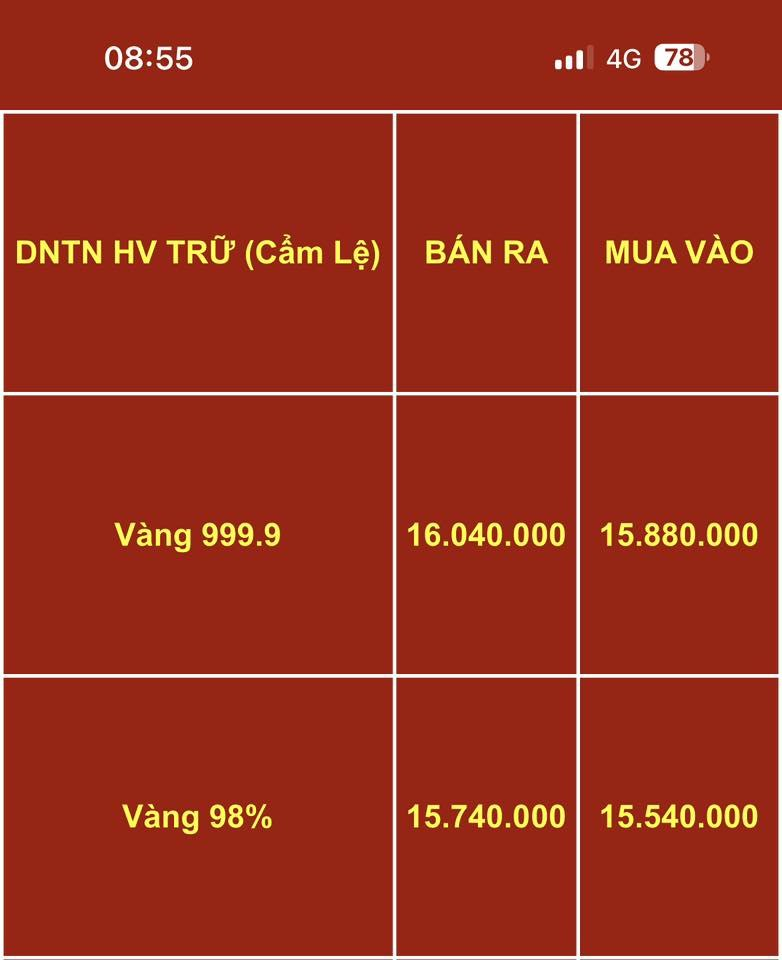
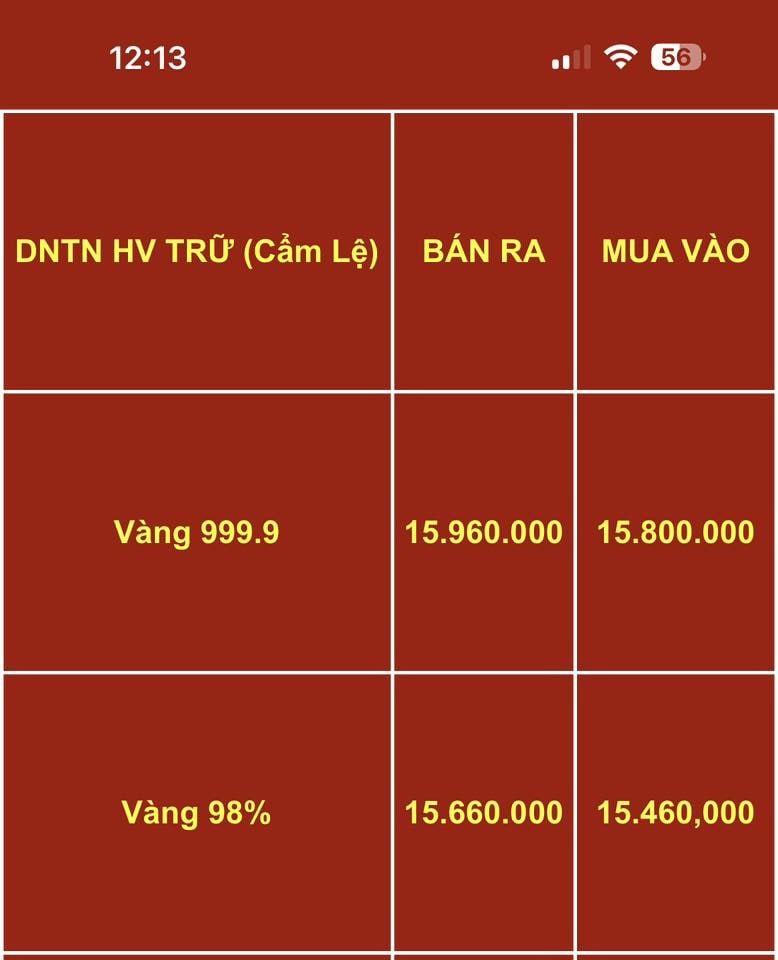
Update tru-cam-le price image (13:36)

diff --git a/app/data/goldShops.ts b/app/data/goldShops.ts
@@ -33,7 +33,7 @@ export const GOLD_SHOPS: GoldShop[] = [
     name: "Trữ Cẩm Lệ",
     location: "Đà Nẵng",
     image: "images/tru-cam-le.jpg",
-    updatedAt: "09:55",
+    updatedAt: "13:36",
   },
 ];
 
